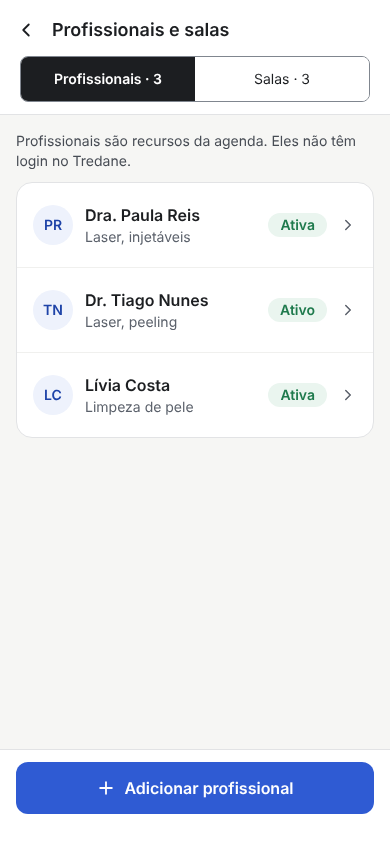
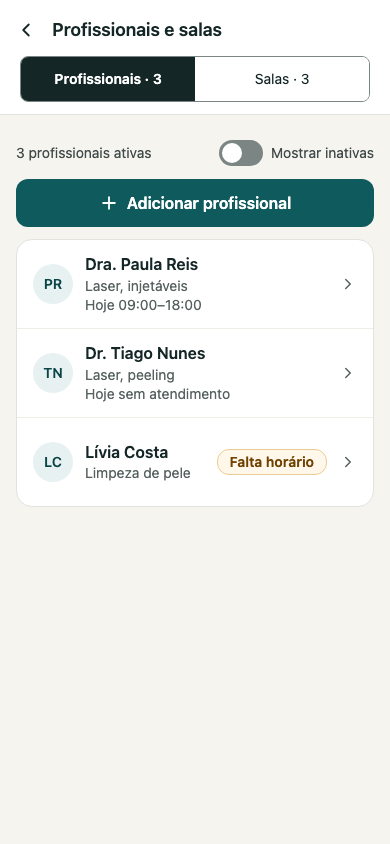
docs(design): mock M-20 com a lista comum de Profissionais e Salas (#226)

diff --git a/docs/design/mobile/Recursos.dc.html b/docs/design/mobile/Recursos.dc.html
@@ -32,50 +32,46 @@ button:focus-visible,a:focus-visible{outline:2px solid #0E5A5C;outline-offset:2p
 
 <sc-if value="{{isPro}}" hint-placeholder-val="{{ true }}">
 <div role="tabpanel" style="flex: 1; overflow-y: auto; padding: 16px; display: flex; flex-direction: column; gap: 12px">
-<p style="margin: 0; font-size: 14px; color: #424B4A">Profissionais são recursos da agenda. Eles não têm login no Tredane.</p>
+<div style="display: flex; flex-direction: column; gap: 4px">
+<div style="display: flex; align-items: center; justify-content: space-between; gap: 12px"><p style="margin: 0; font-size: 14px; color: #424B4A">3 profissionais ativas</p>
+<label style="display: flex; align-items: center; gap: 8px; min-height: 44px; font-size: 14px; color: #424B4A"><button type="button" role="switch" aria-checked="false" aria-label="Mostrar inativas" style="position: relative; flex: none; width: 44px; height: 26px; padding: 0; border: 0; border-radius: 999px; background: #7A8584"><span style="position: absolute; top: 3px; left: 3px; width: 20px; height: 20px; border-radius: 999px; background: #FFFFFF"></span></button>Mostrar inativas</label></div>
+<a href="Profissional.dc.html" style="display: flex; align-items: center; justify-content: center; gap: 8px; height: 48px; border-radius: 12px; background: #0E5A5C; color: #FFFFFF; font-weight: 600; text-decoration: none"><svg aria-hidden="true" width="20" height="20" viewBox="0 0 24 24" fill="none" stroke="currentColor" stroke-width="2.2" stroke-linecap="round"><path d="M12 5v14"></path><path d="M5 12h14"></path></svg>Adicionar profissional</a>
+</div>
 <ul style="list-style: none; margin: 0; padding: 0; background: #FFFFFF; border: 1px solid #E1E3E0; border-radius: 16px; overflow: hidden; flex: none">
-<li style="border-bottom: 1px solid #EEEDE7"><a href="Profissional.dc.html" style="display: flex; align-items: center; gap: 12px; min-height: 68px; padding: 8px 16px; color: #142625; text-decoration: none">
+<li style="border-bottom: 1px solid #EEEDE7"><a href="Profissional.dc.html" style="display: flex; align-items: center; gap: 12px; min-height: 72px; padding: 8px 16px; color: #142625; text-decoration: none">
 <span style="flex: none; width: 40px; height: 40px; border-radius: 20px; background: #E7F1F1; color: #0A4547; font-weight: 600; font-size: 14px; display: flex; align-items: center; justify-content: center">PR</span>
-<span style="flex: 1; min-width: 0; display: flex; flex-direction: column"><span style="font-weight: 600">Dra. Paula Reis</span><span style="font-size: 14px; color: #566160">Laser, injetáveis</span></span>
-<span style="padding: 2px 12px; border-radius: 12px; background: #EAF5EF; color: #1F7A4D; font-size: 14px; font-weight: 600">Ativa</span>
+<span style="flex: 1; min-width: 0; display: flex; flex-direction: column"><span style="font-weight: 600">Dra. Paula Reis</span><span style="font-size: 14px; color: #566160">Laser, injetáveis</span><span style="font-size: 14px; color: #566160">Hoje 09:00–18:00</span></span>
 <svg aria-hidden="true" width="18" height="18" viewBox="0 0 24 24" fill="none" stroke="#566160" stroke-width="2" stroke-linecap="round" stroke-linejoin="round"><path d="M9 6l6 6-6 6"></path></svg></a></li>
-<li style="border-bottom: 1px solid #EEEDE7"><a href="Profissional.dc.html" style="display: flex; align-items: center; gap: 12px; min-height: 68px; padding: 8px 16px; color: #142625; text-decoration: none">
+<li style="border-bottom: 1px solid #EEEDE7"><a href="Profissional.dc.html" style="display: flex; align-items: center; gap: 12px; min-height: 72px; padding: 8px 16px; color: #142625; text-decoration: none">
 <span style="flex: none; width: 40px; height: 40px; border-radius: 20px; background: #E7F1F1; color: #0A4547; font-weight: 600; font-size: 14px; display: flex; align-items: center; justify-content: center">TN</span>
-<span style="flex: 1; min-width: 0; display: flex; flex-direction: column"><span style="font-weight: 600">Dr. Tiago Nunes</span><span style="font-size: 14px; color: #566160">Laser, peeling</span></span>
-<span style="padding: 2px 12px; border-radius: 12px; background: #EAF5EF; color: #1F7A4D; font-size: 14px; font-weight: 600">Ativo</span>
+<span style="flex: 1; min-width: 0; display: flex; flex-direction: column"><span style="font-weight: 600">Dr. Tiago Nunes</span><span style="font-size: 14px; color: #566160">Laser, peeling</span><span style="font-size: 14px; color: #566160">Hoje sem atendimento</span></span>
 <svg aria-hidden="true" width="18" height="18" viewBox="0 0 24 24" fill="none" stroke="#566160" stroke-width="2" stroke-linecap="round" stroke-linejoin="round"><path d="M9 6l6 6-6 6"></path></svg></a></li>
-<li><a href="Profissional.dc.html" style="display: flex; align-items: center; gap: 12px; min-height: 68px; padding: 8px 16px; color: #142625; text-decoration: none">
+<li><a href="Profissional.dc.html" style="display: flex; align-items: center; gap: 12px; min-height: 72px; padding: 8px 16px; color: #142625; text-decoration: none">
 <span style="flex: none; width: 40px; height: 40px; border-radius: 20px; background: #E7F1F1; color: #0A4547; font-weight: 600; font-size: 14px; display: flex; align-items: center; justify-content: center">LC</span>
 <span style="flex: 1; min-width: 0; display: flex; flex-direction: column"><span style="font-weight: 600">Lívia Costa</span><span style="font-size: 14px; color: #566160">Limpeza de pele</span></span>
-<span style="padding: 2px 12px; border-radius: 12px; background: #EAF5EF; color: #1F7A4D; font-size: 14px; font-weight: 600">Ativa</span>
-<svg aria-hidden="true" width="18" height="18" viewBox="0 0 24 24" fill="none" stroke="#566160" stroke-width="2" stroke-linecap="round" stroke-linejoin="round"><path d="M9 6l6 6-6 6"></path></svg></a></li>
+<span style="padding: 2px 12px; border-radius: 12px; background: #FFF7EA; color: #6E4200; border: 1px solid #EBCB94; font-size: 14px; font-weight: 600">Falta horário</span><svg aria-hidden="true" width="18" height="18" viewBox="0 0 24 24" fill="none" stroke="#566160" stroke-width="2" stroke-linecap="round" stroke-linejoin="round"><path d="M9 6l6 6-6 6"></path></svg></a></li>
 </ul>
-</div>
-<div style="flex: none; background: #FFFFFF; border-top: 1px solid #E1E3E0; padding: 12px 16px 30px">
-<a href="Profissional.dc.html" style="display: flex; align-items: center; justify-content: center; gap: 8px; height: 52px; border-radius: 12px; background: #0E5A5C; color: #FFFFFF; font-weight: 600; text-decoration: none"><svg aria-hidden="true" width="20" height="20" viewBox="0 0 24 24" fill="none" stroke="currentColor" stroke-width="2.2" stroke-linecap="round"><path d="M12 5v14"></path><path d="M5 12h14"></path></svg>Adicionar profissional</a>
 </div>
 </sc-if>
 
 <sc-if value="{{isRoom}}" hint-placeholder-val="{{ false }}">
 <div role="tabpanel" style="flex: 1; overflow-y: auto; padding: 16px; display: flex; flex-direction: column; gap: 12px">
-<p style="margin: 0; font-size: 14px; color: #424B4A">Salas e equipamentos ocupam horário junto com o profissional. Um serviço pode exigir uma sala específica ou um tipo.</p>
+<div style="display: flex; flex-direction: column; gap: 4px">
+<div style="display: flex; align-items: center; justify-content: space-between; gap: 12px"><p style="margin: 0; font-size: 14px; color: #424B4A">3 salas ativas</p>
+<label style="display: flex; align-items: center; gap: 8px; min-height: 44px; font-size: 14px; color: #424B4A"><button type="button" role="switch" aria-checked="false" aria-label="Mostrar inativas" style="position: relative; flex: none; width: 44px; height: 26px; padding: 0; border: 0; border-radius: 999px; background: #7A8584"><span style="position: absolute; top: 3px; left: 3px; width: 20px; height: 20px; border-radius: 999px; background: #FFFFFF"></span></button>Mostrar inativas</label></div>
+<a href="Sala.dc.html" style="display: flex; align-items: center; justify-content: center; gap: 8px; height: 48px; border-radius: 12px; background: #0E5A5C; color: #FFFFFF; font-weight: 600; text-decoration: none"><svg aria-hidden="true" width="20" height="20" viewBox="0 0 24 24" fill="none" stroke="currentColor" stroke-width="2.2" stroke-linecap="round"><path d="M12 5v14"></path><path d="M5 12h14"></path></svg>Adicionar sala ou equipamento</a>
+</div>
 <ul style="list-style: none; margin: 0; padding: 0; background: #FFFFFF; border: 1px solid #E1E3E0; border-radius: 16px; overflow: hidden; flex: none">
-<li style="border-bottom: 1px solid #EEEDE7"><a href="Sala.dc.html" style="display: flex; align-items: center; gap: 12px; min-height: 68px; padding: 8px 16px; color: #142625; text-decoration: none">
-<span style="flex: 1; min-width: 0; display: flex; flex-direction: column"><span style="font-weight: 600">Sala 1</span><span style="font-size: 14px; color: #566160">Sala · atendimento geral</span></span>
-<span style="padding: 2px 12px; border-radius: 12px; background: #EAF5EF; color: #1F7A4D; font-size: 14px; font-weight: 600">Ativa</span>
+<li style="border-bottom: 1px solid #EEEDE7"><a href="Sala.dc.html" style="display: flex; align-items: center; gap: 12px; min-height: 72px; padding: 8px 16px; color: #142625; text-decoration: none">
+<span style="flex: 1; min-width: 0; display: flex; flex-direction: column"><span style="font-weight: 600">Sala 1</span><span style="font-size: 14px; color: #566160">1 cliente por vez</span><span style="font-size: 14px; color: #566160">Usada em 2 serviços</span></span>
 <svg aria-hidden="true" width="18" height="18" viewBox="0 0 24 24" fill="none" stroke="#566160" stroke-width="2" stroke-linecap="round" stroke-linejoin="round"><path d="M9 6l6 6-6 6"></path></svg></a></li>
-<li style="border-bottom: 1px solid #EEEDE7"><a href="Sala.dc.html" style="display: flex; align-items: center; gap: 12px; min-height: 68px; padding: 8px 16px; color: #142625; text-decoration: none">
-<span style="flex: 1; min-width: 0; display: flex; flex-direction: column"><span style="font-weight: 600">Sala 2 (laser)</span><span style="font-size: 14px; color: #566160">Sala com equipamento a laser</span></span>
-<span style="padding: 2px 12px; border-radius: 12px; background: #EAF5EF; color: #1F7A4D; font-size: 14px; font-weight: 600">Ativa</span>
+<li style="border-bottom: 1px solid #EEEDE7"><a href="Sala.dc.html" style="display: flex; align-items: center; gap: 12px; min-height: 72px; padding: 8px 16px; color: #142625; text-decoration: none">
+<span style="flex: 1; min-width: 0; display: flex; flex-direction: column"><span style="font-weight: 600">Sala 2 (laser)</span><span style="font-size: 14px; color: #566160">Equipamento · 1 cliente por vez</span><span style="font-size: 14px; color: #566160">Usada em 1 serviço</span></span>
 <svg aria-hidden="true" width="18" height="18" viewBox="0 0 24 24" fill="none" stroke="#566160" stroke-width="2" stroke-linecap="round" stroke-linejoin="round"><path d="M9 6l6 6-6 6"></path></svg></a></li>
-<li><a href="Sala.dc.html" style="display: flex; align-items: center; gap: 12px; min-height: 68px; padding: 8px 16px; color: #142625; text-decoration: none">
-<span style="flex: 1; min-width: 0; display: flex; flex-direction: column"><span style="font-weight: 600">Sala 3</span><span style="font-size: 14px; color: #566160">Sala · estética facial</span></span>
-<span style="padding: 2px 12px; border-radius: 12px; background: #EAF5EF; color: #1F7A4D; font-size: 14px; font-weight: 600">Ativa</span>
+<li><a href="Sala.dc.html" style="display: flex; align-items: center; gap: 12px; min-height: 72px; padding: 8px 16px; color: #142625; text-decoration: none">
+<span style="flex: 1; min-width: 0; display: flex; flex-direction: column"><span style="font-weight: 600">Sala 3</span><span style="font-size: 14px; color: #566160">Atende 2 clientes ao mesmo tempo</span><span style="font-size: 14px; color: #566160">Nenhum serviço usa</span></span>
 <svg aria-hidden="true" width="18" height="18" viewBox="0 0 24 24" fill="none" stroke="#566160" stroke-width="2" stroke-linecap="round" stroke-linejoin="round"><path d="M9 6l6 6-6 6"></path></svg></a></li>
 </ul>
-</div>
-<div style="flex: none; background: #FFFFFF; border-top: 1px solid #E1E3E0; padding: 12px 16px 30px">
-<a href="Sala.dc.html" style="display: flex; align-items: center; justify-content: center; gap: 8px; height: 52px; border-radius: 12px; background: #0E5A5C; color: #FFFFFF; font-weight: 600; text-decoration: none"><svg aria-hidden="true" width="20" height="20" viewBox="0 0 24 24" fill="none" stroke="currentColor" stroke-width="2.2" stroke-linecap="round"><path d="M12 5v14"></path><path d="M5 12h14"></path></svg>Adicionar sala ou equipamento</a>
 </div>
 </sc-if>
 </div>

diff --git a/docs/design/screens.md b/docs/design/screens.md
@@ -37,7 +37,7 @@ Cada linha liga um mock a sua especificação. **A especificação manda:** em c
 | M-17 | `Horarios` | TEL-09 horários | JRN-08 · REQ-030 · AC-38 | Abas por profissional e recurso, expediente semanal, bloqueios pontuais, aviso sobre compromissos existentes, **Novo bloqueio** | M-15 |
 | M-18 | `Equipe` | TEL-09 equipe | JRN-08 · REQ-002, REQ-003, REQ-004 · AC-02, AC-03 | Membros e papéis (responsáveis só leitura), convites pendentes (reenviar com espera, cancelar), faixa de pedido de suporte, “Suporte do Tredane”, **Convidar atendente** | M-15, M-27, M-28 |
 | M-19 | `ConectarWhatsapp` | TEL-09 WhatsApp | JRN-08 · REQ-051 | **Não conectado**, passos do Embedded Signup, **Conectar WhatsApp**, **Pedir ajuda** | M-15 |
-| M-20 | `Recursos` (interativo) | TEL-09 recursos | JRN-08 · REQ-052 · AC-38 | Abas Profissionais e Salas; listas com estado; botões de adicionar. **Proposto (#226):** cabeçalho comum com contagem, chave «Mostrar inativas» e «Adicionar» no topo; linha com serviços e expediente de hoje (Profissionais) ou capacidade e uso (Salas); selos só nas exceções («Inativa», «Falta horário»). O mock ainda mostra o botão no fim da lista | M-21, M-22, M-15 |
+| M-20 | `Recursos` (interativo) | TEL-09 recursos | JRN-08 · REQ-052 · AC-38 | Abas Profissionais e Salas; listas com estado; botões de adicionar. **Proposto (#226):** cabeçalho comum com contagem, chave «Mostrar inativas» e «Adicionar» no topo; linha com serviços e expediente de hoje (Profissionais) ou capacidade e uso (Salas); selos só nas exceções («Inativa», «Falta horário»). O mock mobile (`Recursos`) já segue isso; a lista de Serviços ainda não tem mock próprio (a referência é o código e a spec) | M-21, M-22, M-15 |
 | M-21 | `Profissional` | TEL-09 recursos | JRN-08 · REQ-052 · AC-38 | Nome, serviços que faz, expediente (atalho), ativa, aviso de compromissos futuros ao desativar; sem login | M-20, M-17 |
 | M-22 | `Sala` | TEL-09 recursos | JRN-08 · REQ-052 · AC-38 | Tipo (sala/equipamento), nome, categoria, disponibilidade (atalho), serviços que usam, ativa, aviso de serviço sem recurso | M-20, M-17 |
 | M-23 | `WhatsappConectado` | TEL-09 WhatsApp | REQ-051 · AC-40 | **Conectado**, número, quem conectou, última mensagem, modelos e estado, Trocar número, Desconectar | M-25, M-26, M-15 |
